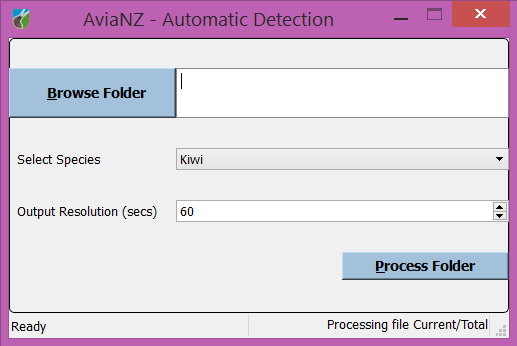
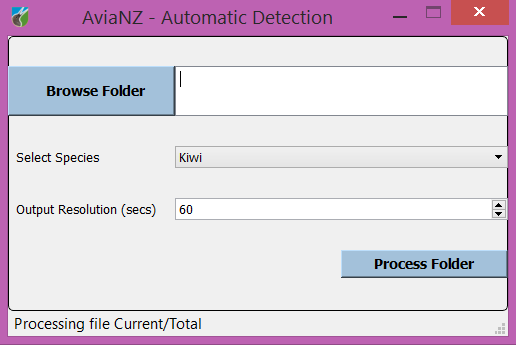
Updating the manual and starting on post processing

diff --git a/interface_FindSpecies.py b/interface_FindSpecies.py
@@ -30,20 +30,21 @@ class AviaNZFindSpeciesInterface(QMainWindow):
         QMainWindow.__init__(self, root)
 
         # add statusbar
-        self.statusLeft = QLabel("Ready")
-        self.statusLeft.setFrameStyle(QFrame.Panel)
-        self.statusRight = QLabel("Processing file Current/Total")
-        self.statusRight.setAlignment(Qt.AlignRight)
-        self.statusRight.setFrameStyle(QFrame.Panel)
-        statusStyle='QLabel {border:transparent}'
-        self.statusLeft.setStyleSheet(statusStyle)
-        self.statusRight.setStyleSheet(statusStyle)
-        self.statusBar().addPermanentWidget(self.statusLeft,1)
-        self.statusBar().addPermanentWidget(self.statusRight,1)
+        # self.statusLeft = QLabel("Ready")
+        # self.statusLeft.setFrameStyle(QFrame.Panel)
+        # self.statusRight = QLabel("Processing file Current/Total")
+        # self.statusRight.setAlignment(Qt.AlignRight)
+        # self.statusRight.setFrameStyle(QFrame.Panel)
+        # statusStyle='QLabel {border:transparent}'
+        # self.statusLeft.setStyleSheet(statusStyle)
+        # self.statusRight.setStyleSheet(statusStyle)
+        # self.statusBar().addPermanentWidget(self.statusLeft,1)
+        # self.statusBar().addPermanentWidget(self.statusRight,1)
 
-        # Set the message in the status bar
-        self.statusLeft.setText("Ready")
-        self.statusRight.setText("Processing file Current/Total")
+        # # Set the message in the status bar
+        # self.statusLeft.setText("Ready")
+        # # self.statusRight.setText("Processing file Current/Total")
+        self.statusBar().showMessage("Processing file Current/Total")
 
         self.setWindowTitle('AviaNZ - Automatic Detection')
         self.createFrame()
@@ -109,7 +110,7 @@ class AviaNZFindSpeciesInterface(QMainWindow):
     def detect(self):
         with pg.BusyCursor():
             if self.dirName:
-                self.statusLeft.setText("Processing...")
+                # self.statusLeft.setText("Processing...")
                 i=self.w_spe.currentIndex()
                 if i==0:
                     self.species="Kiwi"
@@ -124,7 +125,6 @@ class AviaNZFindSpeciesInterface(QMainWindow):
                         if filename.endswith('.wav'):
                             total=total+1
                 cnt=0   # processed number of files
-                self.statusRight.setText("Processing file " + "0/" + str(total))
 
                 for root, dirs, files in os.walk(str(self.dirName)):
                     for filename in files:
@@ -132,7 +132,8 @@ class AviaNZFindSpeciesInterface(QMainWindow):
                             # if not os.path.isfile(root+'/'+filename+'.data'): # if already processed then skip?
                             #     continue
                             cnt=cnt+1
-                            self.statusRight.setText("Processing file " + str(cnt) + "/" + str(total))
+                            # self.statusRight.setText("Processing file " + str(cnt) + "/" + str(total))
+                            self.statusBar().showMessage("Processing file " + str(cnt) + "/" + str(total) + "...")
                             self.filename=root+'/'+filename
                             self.loadFile()
                             self.seg = Segment.Segment(self.audiodata, self.sgRaw, self.sp, self.sampleRate)
@@ -168,6 +169,8 @@ class AviaNZFindSpeciesInterface(QMainWindow):
                                 newSegments=self.seg.bestSegments()
                                 # print newSegments
 
+                            # Find clicks and remove them
+
                             # Save the excel file
                             out = SupportClasses.exportSegments(annotation=newSegments, species=self.species,
                                                                 dirName=self.dirName, filename=self.filename,
@@ -175,7 +178,8 @@ class AviaNZFindSpeciesInterface(QMainWindow):
                             out.excel()
                             # Save the annotation
                             out.saveAnnotation()
-                self.statusLeft.setText("Ready")
+                # self.statusLeft.setText("Ready")
+                self.statusBar().showMessage("Processed files " + str(cnt) + "/" + str(total))
             else:
                 msg = QMessageBox()
                 msg.setIconPixmap(QPixmap("img/Owl_warning.png"))

diff --git a/WaveletSegment.py b/WaveletSegment.py
@@ -238,8 +238,8 @@ class WaveletSegment:
             if species.title() == 'Sipo':
                 thr = 0.25
             else:
-                thr = 1.0
-
+                # thr = 1.0
+                thr = 0.25
         detected = np.zeros((int(len(wp.data)/sampleRate),len(listnodes)))
         count = 0
 
@@ -715,72 +715,16 @@ def moretest():
 #     return segs
 
 ###########
-def detectClicks(audioData,sampleRate):
-    from scipy.signal import medfilt
-    fs = sampleRate
-    data = audioData
-
-    # if data.dtype is not 'float':
-    #     data = data.astype('float') # / 32768.0
-    #
-    # if np.shape(np.shape(data))[0] > 1:
-    #     data = data[:, 0]
-
-    sp = SignalProc.SignalProc(data,fs,256,128)
-    sg = sp.spectrogram(data,multitaper=False)
-    # s = Segment(data, sg, sp, fs, 50)
-
-    energy = np.sum(sg,axis=1)
-    energy = medfilt(energy,15)
-    e2 = np.percentile(energy,95)*2
-    # Step 1: clicks have high energy
-    clicks = np.squeeze(np.where(energy>e2))
-    # clicks = s.identifySegments(clicks, minlength=1)
-    return clicks,sg
-
-def eRatio(fName=None):
-    '''
-    This is a post processor to introduce some confidence level
-    high ratio --> classes 1-3 'good' calls
-    low ratio --> classes 4-5 'weak' calls
-    ratio = energy in band/energy above the band
-    The problem with this simple classifier is that the ratio is relatively low when the
-    calls are having most of the harmonics (close range)
-    '''
-    import Segment
-    fName='Sound Files/Kiwi/test/Ponui/kiwi-test6'
-    ws=WaveletSegment()
-    ws.loadData(fName, trainTest=False)
-    newSegments = ws.waveletSegment_test(fName=None, data=ws.data, sampleRate=ws.sampleRate, species=ws.species,
-                                         trainTest=False)
-    clicks, sg = detectClicks(ws.data,ws.sampleRate)
-    # maxsg = np.min(sgRaw)
-    # sg = np.abs(np.where(sgRaw==0,0.0,10.0 * np.log10(sgRaw/maxsg)))
-    c = clicks * 128 / ws.sampleRate  # convert frame numbers to seconds
-    c = list(set(c))
-    for i in c:
-        newSegments[i] = 0        # remove clicks
-
-    # maxsg = np.min(sgRaw)
-    # sg = np.abs(np.where(sgRaw==0,0.0,10.0 * np.log10(sgRaw/maxsg)))
-
-    detected = np.where(newSegments > 0)
-    # print "det",detected
-    if np.shape(detected)[1] > 1:
-        detected = ws.identifySegments(np.squeeze(detected))
-    elif np.shape(detected)[1] == 1:
-        detected = ws.identifySegments(detected)
-    else:
-        detected=[]
-    f1 = 1000
-    f2 = 4000
-    for seg in detected:
-        e = np.sum(sg[seg[0] * ws.sampleRate / 128:seg[1] * ws.sampleRate / 128, :]) /128                         # whole frquency range
-        # e = np.sum(sg[seg[0] * ws.sampleRate / 128:seg[1] * ws.sampleRate / 128, f2 * 128 / (ws.sampleRate / 2):])  # f2:
-        nBand = 128 - f1 * 128 / (ws.sampleRate / 2)    # number of frequency bands
-        e=e/nBand   # per band power
-        eBand = np.sum(sg[seg[0] * ws.sampleRate / 128:seg[1] * ws.sampleRate / 128, f1 * 128 / (ws.sampleRate / 2):f2 * 128 / (ws.sampleRate / 2)]) # f1:f2
-        nBand = f2 * 128 / (ws.sampleRate / 2) - f1 * 128 / (ws.sampleRate / 2)
-        eBand = eBand / nBand
-        r = eBand/e
-        print seg, r
+# #just testing
+# fName='Sound Files/Kiwi/test/Tier1/CL78_BIRM_141120_212934'
+# # fName='Sound Files/Kiwi/test/Ponui/kiwi-test2'
+# ws=WaveletSegment()
+# ws.loadData(fName, trainTest=False)
+# # det = ws.waveletSegment_test(fName=None, data=ws.data, sampleRate=ws.sampleRate, species=ws.species,
+# #                                          trainTest=False)
+# det = np.ones(900)
+# if sum(det)>0:
+#     import SupportClasses
+#     post=SupportClasses.postProcess(ws.data, ws.sampleRate, det)
+#     # post.detectClicks()
+#     post.eRatioConfd()

diff --git a/SupportClasses.py b/SupportClasses.py
@@ -29,12 +29,15 @@ class postProcess:
         self.audioData=audioData
         self.sampleRate=sampleRate
         self.detections=detections
+        self.confirmedDetections=np.zeros(len(detections))  # post processed detections
+        self.unsureDetections=np.ones(len(detections))*-1  # need more testing to confirm
 
     def detectClicks(self):
         '''
-        This function finds 'click' sounds that normally pick up by any detector as false positives
-        and then remove those from the output
+        This function finds 'click' sounds that normally pick up by any detector as false positives.
+        Remove those from the output.
         '''
+        # TODO: this also tends to detele true posoitives! Try looking back and forth to see if its longer than 1 sec
         fs = self.sampleRate
         data = self.audioData
 
@@ -53,7 +56,7 @@ class postProcess:
         for i in c:
             self.detections[i] = 0        # remove clicks
 
-    def eRatio(self):
+    def eRatioConfd(self, thr=2.5):
         '''
         This is a post processor to introduce some confidence level
         high ratio --> classes 1-3 'good' calls
@@ -61,9 +64,10 @@ class postProcess:
         ratio = energy in band/energy above the band
         The problem with this simple classifier is that the ratio is relatively low when the
         calls are having most of the harmonics (close range)
+        Mostly works
         '''
         import WaveletSegment
-        ws = WaveletSegment()
+        ws = WaveletSegment.WaveletSegment()
         detected = np.where(self.detections > 0)
         # print "det",detected
         if np.shape(detected)[1] > 1:
@@ -74,16 +78,22 @@ class postProcess:
             detected=[]
         f1 = 1000
         f2 = 4000
+        sp = SignalProc.SignalProc(self.audioData, self.sampleRate, 256, 128)
+        self.sg = sp.spectrogram(self.audioData)
         for seg in detected:
-            e = np.sum(self.sg[seg[0] * ws.sampleRate / 128:seg[1] * ws.sampleRate / 128, :]) /128                         # whole frquency range
-            # e = np.sum(sg[seg[0] * ws.sampleRate / 128:seg[1] * ws.sampleRate / 128, f2 * 128 / (ws.sampleRate / 2):])  # f2:
-            nBand = 128 - f1 * 128 / (ws.sampleRate / 2)    # number of frequency bands
+            # e = np.sum(self.sg[seg[0] * self.sampleRate / 128:seg[1] * self.sampleRate / 128, :]) /128     # whole frequency range
+            # nBand = 128  # number of frequency bands
+            e = np.sum(self.sg[seg[0] * self.sampleRate / 128:seg[1] * self.sampleRate / 128, f2 * 128 / (self.sampleRate / 2):])  # f2:
+            nBand = 128 - f2 * 128 / (self.sampleRate / 2)    # number of frequency bands
             e=e/nBand   # per band power
-            eBand = np.sum(self.sg[seg[0] * ws.sampleRate / 128:seg[1] * ws.sampleRate / 128, f1 * 128 / (ws.sampleRate / 2):f2 * 128 / (ws.sampleRate / 2)]) # f1:f2
-            nBand = f2 * 128 / (ws.sampleRate / 2) - f1 * 128 / (ws.sampleRate / 2)
+
+            eBand = np.sum(self.sg[seg[0] * self.sampleRate / 128:seg[1] * self.sampleRate / 128, f1 * 128 / (self.sampleRate / 2):f2 * 128 / (self.sampleRate / 2)]) # f1:f2
+            nBand = f2 * 128 / (self.sampleRate / 2) - f1 * 128 / (self.sampleRate / 2)
             eBand = eBand / nBand
             r = eBand/e
-            print seg, r
+            # print seg, r
+            if r>thr:
+                self.confirmedDetections[seg[0]]=1
 
 class exportSegments:
     """ This class saves the batch detection results(Find Species) and also current annotations (AviaNZ interface)
